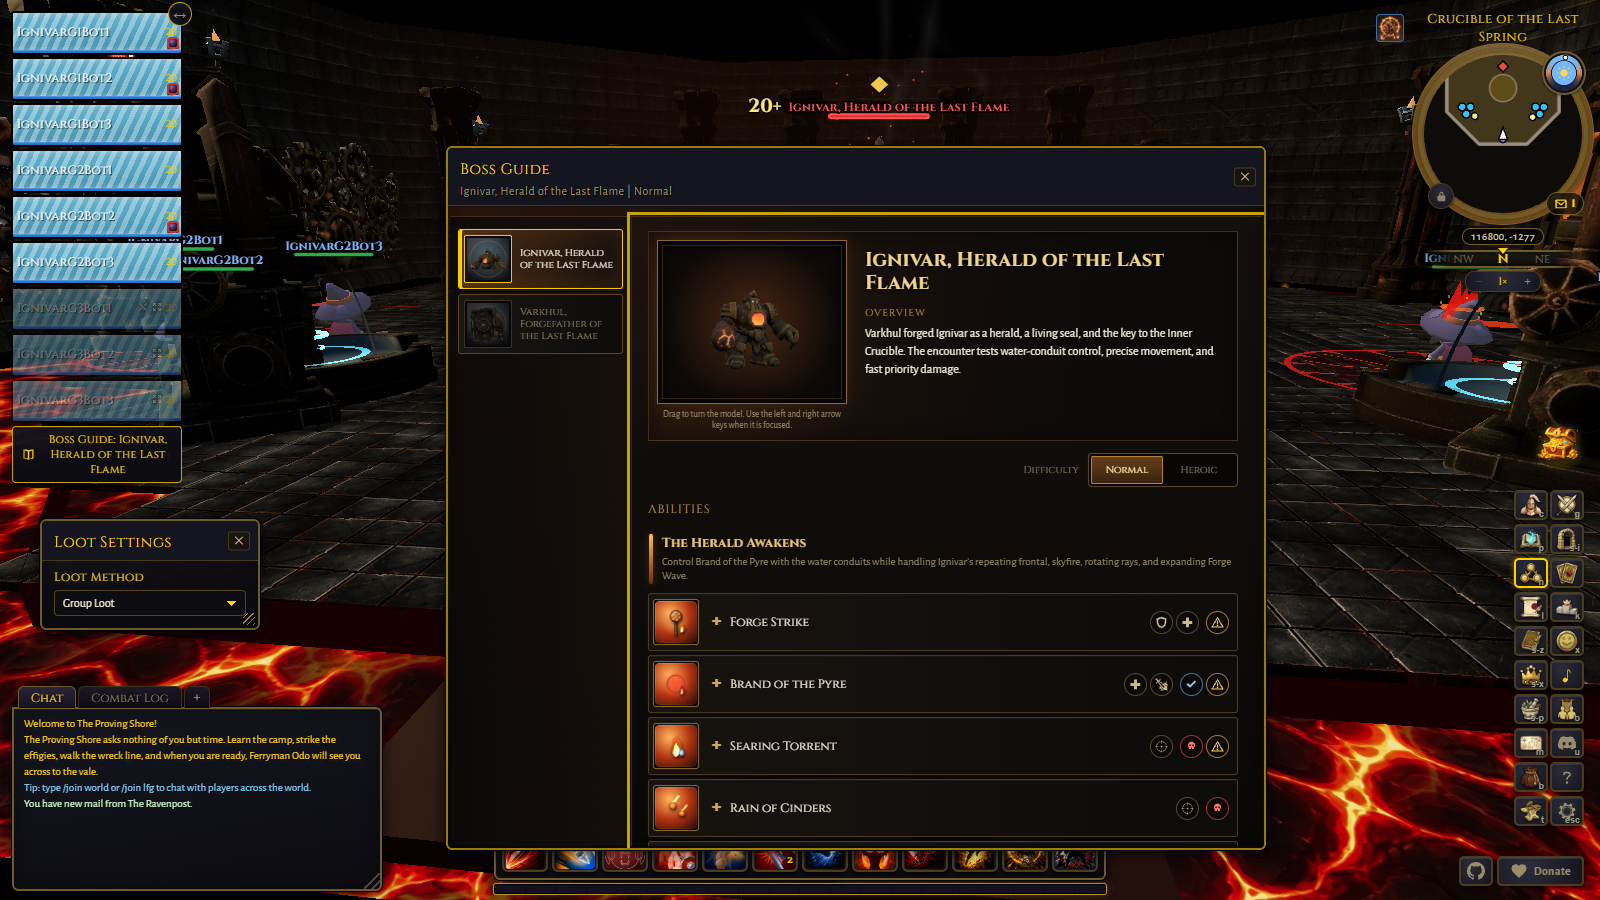
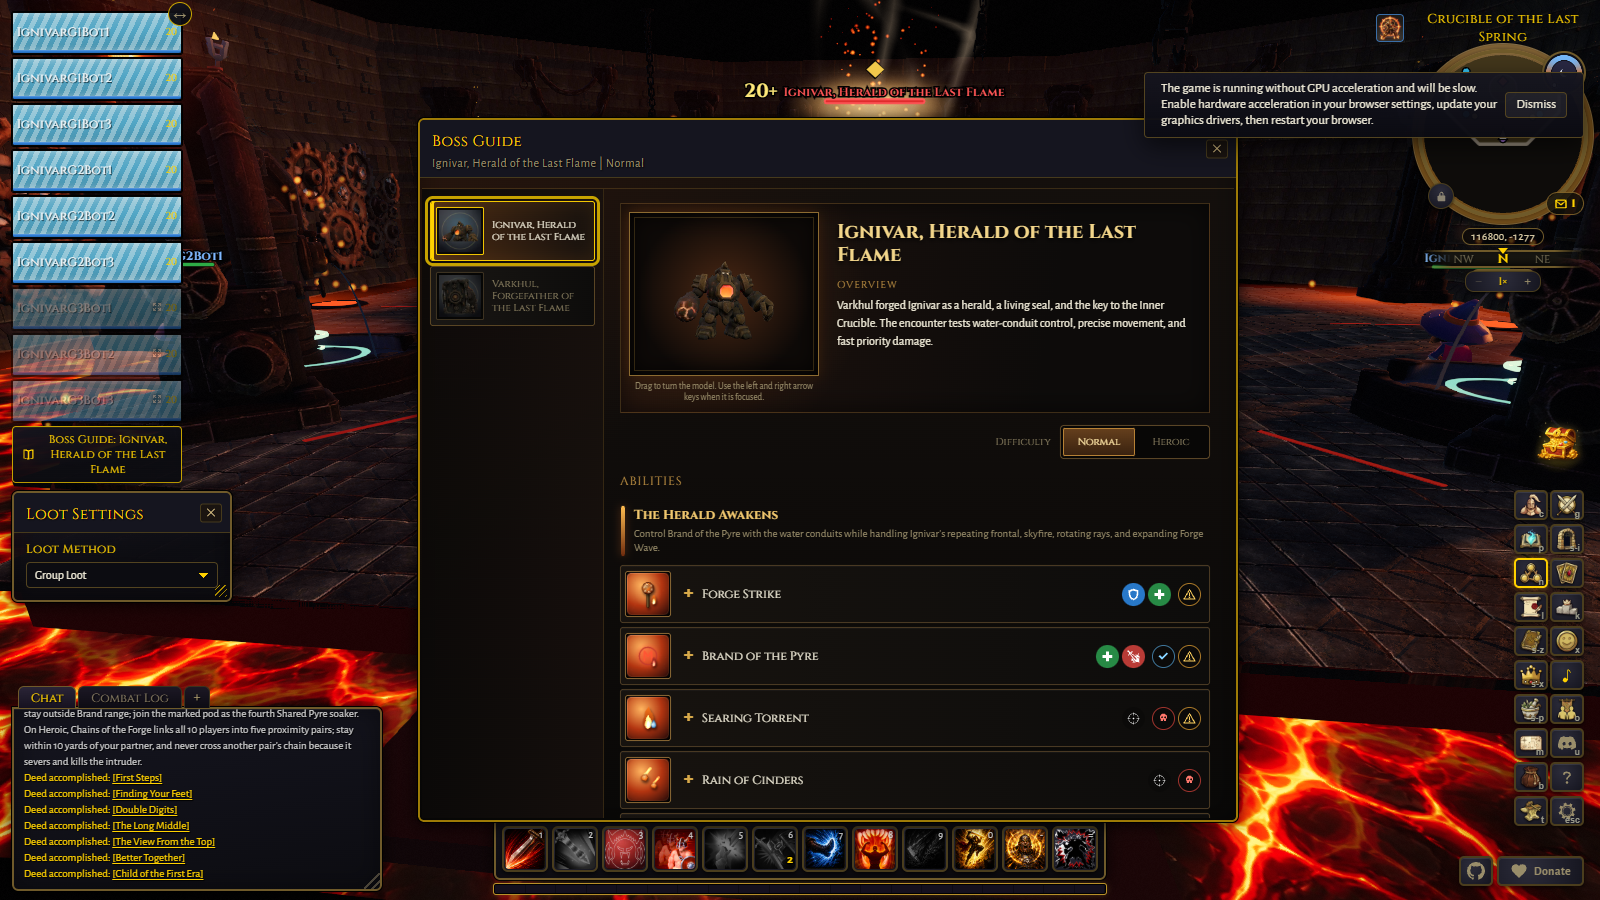
feat(ui): color code raid guide roles
Give tank, healer, and damage badges distinct solid backgrounds so role guidance can be parsed at a glance. Update the in-game screenshot and pin the tokenized colors in the guide style tests.

diff --git a/tests/raid_boss_guide_styles.test.ts b/tests/raid_boss_guide_styles.test.ts
@@ -3,6 +3,7 @@ import { describe, expect, it } from 'vitest';
 
 const desktopCss = readFileSync(new URL('../src/styles/hud.css', import.meta.url), 'utf8');
 const mobileCss = readFileSync(new URL('../src/styles/hud.mobile.css', import.meta.url), 'utf8');
+const tokensCss = readFileSync(new URL('../src/styles/tokens.css', import.meta.url), 'utf8');
 const guideDesktopCss = desktopCss.slice(
   desktopCss.indexOf('.party-boss-guide-button'),
   desktopCss.indexOf('#party-frames.below-target'),
@@ -63,6 +64,24 @@ describe('raid boss guide styles', () => {
     expect(rule(desktopCss, '#raid-boss-guide-window .rbg-model-poster')).toMatch(
       /object-fit:\s*contain/,
     );
+  });
+
+  it('color codes role icon backgrounds without adding an outline', () => {
+    const roleBadge = rule(desktopCss, '#raid-boss-guide-window .rbg-badge-role');
+    expect(roleBadge).toMatch(/border:\s*0/);
+    expect(roleBadge).toMatch(/color:\s*var\(--color-rbg-role-icon\)/);
+    expect(rule(desktopCss, '#raid-boss-guide-window .rbg-badge-tank')).toMatch(
+      /background:\s*var\(--color-rbg-role-tank-bg\)/,
+    );
+    expect(rule(desktopCss, '#raid-boss-guide-window .rbg-badge-healer')).toMatch(
+      /background:\s*var\(--color-rbg-role-healer-bg\)/,
+    );
+    expect(rule(desktopCss, '#raid-boss-guide-window .rbg-badge-damage')).toMatch(
+      /background:\s*var\(--color-rbg-role-damage-bg\)/,
+    );
+    expect(tokensCss).toContain('--color-rbg-role-tank-bg: #2878c8;');
+    expect(tokensCss).toContain('--color-rbg-role-healer-bg: #278a45;');
+    expect(tokensCss).toContain('--color-rbg-role-damage-bg: #b93b36;');
   });
 
   it('keeps the raid guide palette in shared tokens', () => {

diff --git a/src/styles/hud.css b/src/styles/hud.css
@@ -7262,7 +7262,8 @@
     transform: translateX(-50%);
     z-index: 3;
   }
-  #raid-boss-guide-window .rbg-model-viewer:is([data-state="idle"], [data-state="error"])
+  #raid-boss-guide-window
+    .rbg-model-viewer:is([data-state="idle"], [data-state="error"])
     .rbg-model-load {
     display: block;
   }
@@ -7401,11 +7402,7 @@
   #raid-boss-guide-window .rbg-ability {
     border: 1px solid var(--color-rbg-ability-border);
     border-radius: 3px;
-    background: linear-gradient(
-      90deg,
-      var(--color-rbg-ability-start),
-      var(--color-rbg-tab-end)
-    );
+    background: linear-gradient(90deg, var(--color-rbg-ability-start), var(--color-rbg-tab-end));
     box-shadow: inset 0 1px 0 var(--color-rbg-ability-inset);
   }
   #raid-boss-guide-window .rbg-ability.expanded {
@@ -7484,6 +7481,19 @@
     border-radius: 50%;
     background: var(--color-rbg-badge-bg);
     color: var(--color-rbg-badge-text);
+  }
+  #raid-boss-guide-window .rbg-badge-role {
+    border: 0;
+    color: var(--color-rbg-role-icon);
+  }
+  #raid-boss-guide-window .rbg-badge-tank {
+    background: var(--color-rbg-role-tank-bg);
+  }
+  #raid-boss-guide-window .rbg-badge-healer {
+    background: var(--color-rbg-role-healer-bg);
+  }
+  #raid-boss-guide-window .rbg-badge-damage {
+    background: var(--color-rbg-role-damage-bg);
   }
   #raid-boss-guide-window .rbg-badge .ui-icon {
     width: 13px;

diff --git a/src/styles/tokens.css b/src/styles/tokens.css
@@ -205,6 +205,10 @@
     --color-rbg-badge-border: #56472f;
     --color-rbg-badge-bg: #0b0a09;
     --color-rbg-badge-text: #cbb889;
+    --color-rbg-role-icon: #fff;
+    --color-rbg-role-tank-bg: #2878c8;
+    --color-rbg-role-healer-bg: #278a45;
+    --color-rbg-role-damage-bg: #b93b36;
     --color-rbg-deadly-border: #9f332d;
     --color-rbg-deadly-text: #ff786d;
     --color-rbg-important-border: #a97828;
